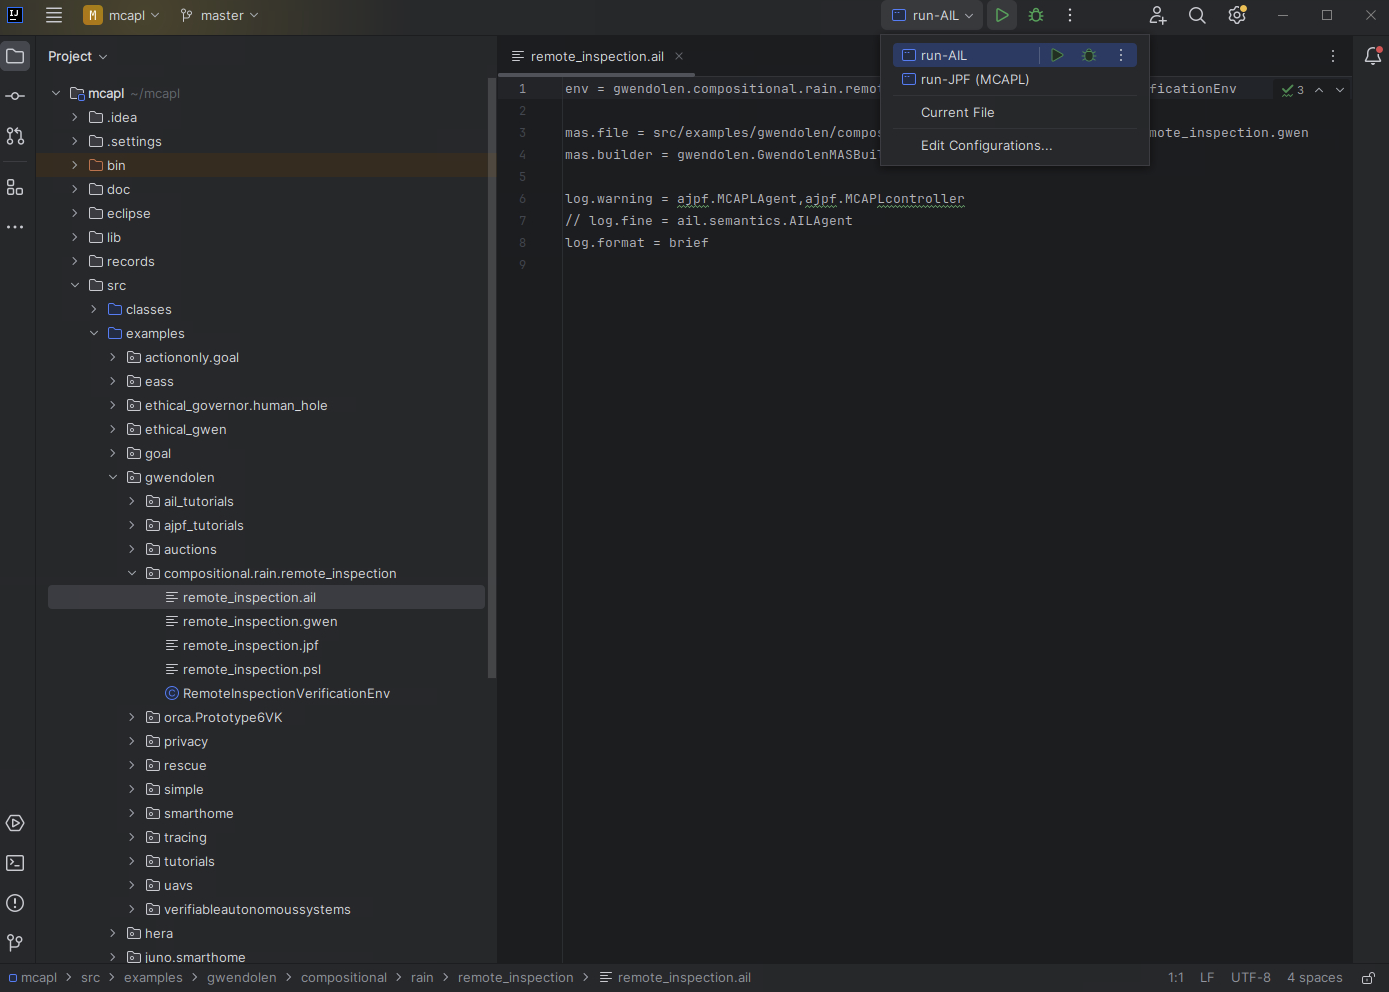
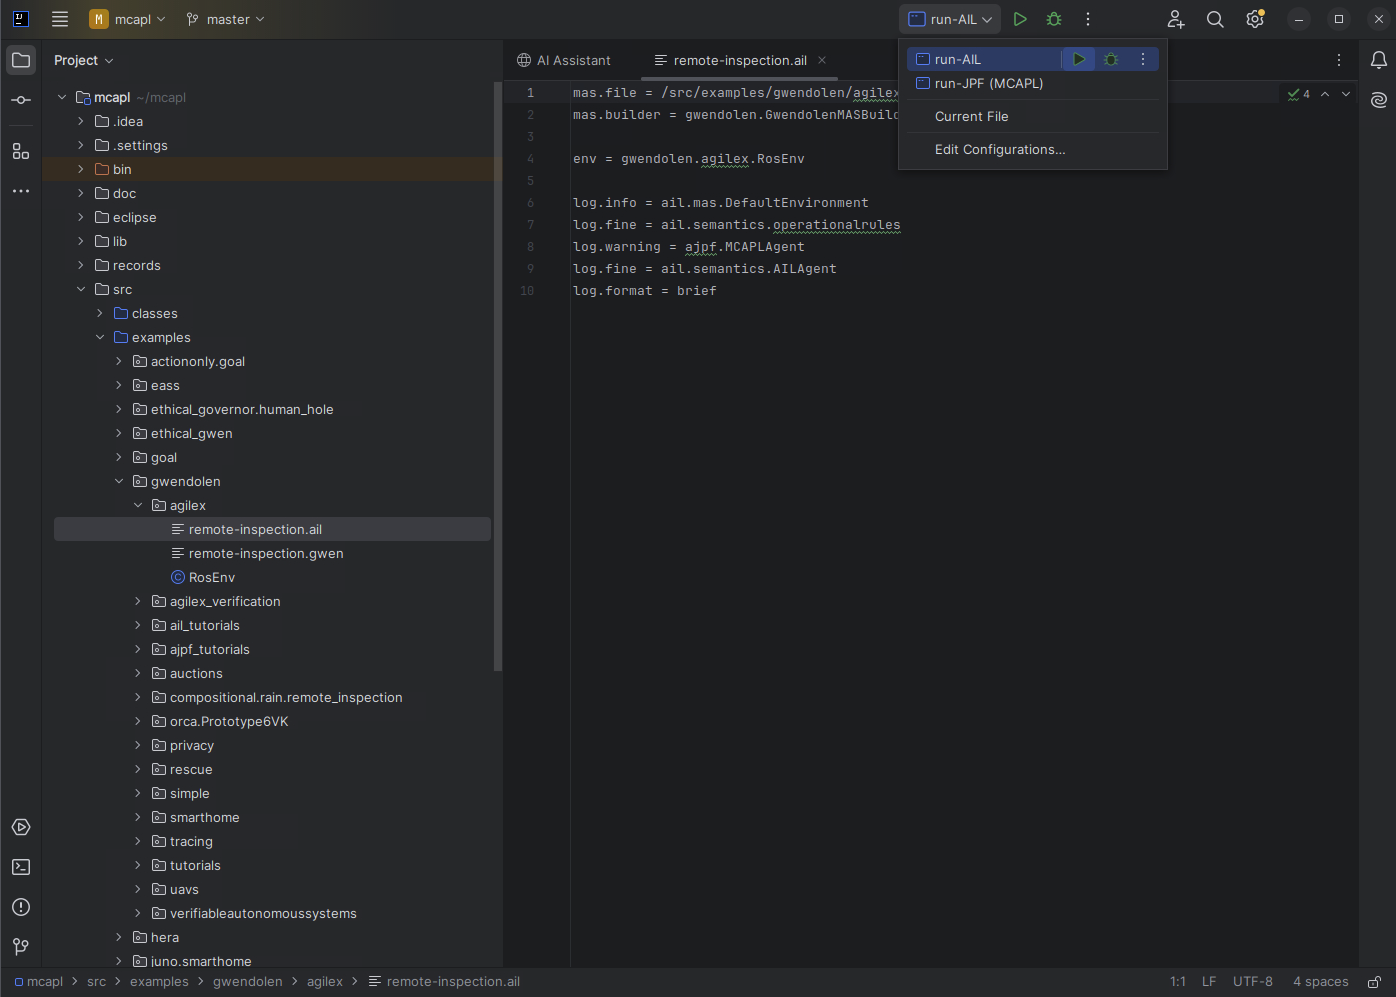
review README file

diff --git a/README.md b/README.md
@@ -1,8 +1,13 @@
 
 ---
 
-# **docker-radiation-store**  
-A Docker setup for using **MCAPL tools** with the **EEE radiation store Gazebo simulation**, facilitated throught **Docker Compose**.
+# **Safe-ROS**  
+An Architecture for Autonomous Robots in Safety-Critical Domains
+---
+
+This repository provides a Docker-based setup for experimenting with [MCAPL](https://github.com/mcapl/mcapl) tools in the [EEE Radiation Store Gazebo simulation](https://github.com/EEEManchester/gazebo_radiation_plugin), facilitated via Docker Compose. It integrates key components for autonomous robot development and verification, including [FRET](https://github.com/NASA-SW-VnV/fret) for formal requirements elicitation, [Java ROSBridge](https://github.com/h2r/java_rosbridge) for communication with ROS, [AgileX robotic packages](https://github.com/agilexrobotics/scout_ros) for robot control and simulation, and [Dafny](https://dafny.org/) for formal verification.
+
+
 
 ---
 
@@ -140,6 +145,19 @@ At this point you'll se the **MCAPL** project in intellij interface.
 
 ---
 
+## **MCAPL and ROS Bridge Setup**  
+
+1.  In IntelliJ, open the **MCAPL** project and navigate to:  
+   ```
+   src/examples/gwendolen/agilex/remote_inspection.ail
+   ```
+4. Right-click **`remote-inspection.ail`** → **Run As > Run Configurations**  
+
+![IntelliJ](Intellij.png)
+
+
+---
+
 ## **Java_rosbridge Setup**  
 
 > **Note**  
@@ -171,16 +189,4 @@ After running the above commands, a new folder named **`target`** will be create
 This enables communication between **Gwendolen** and **ROS (via ROS Bridge)**.  
 > If you're adding additional messages, modify the `.jar` file accordingly.
 
----
 
-## **MCAPL and ROS Bridge Setup**  
-
-1.  In IntelliJ, open the **MCAPL** project and navigate to:  
-   ```
-   src/examples/gwendolen/agilex/remote_inspection
-   ```
-4. Right-click **`remote-inspection.ail`** → **Run As > Run Configurations**  
-
-![IntelliJ](Intellij.png)
-
----
